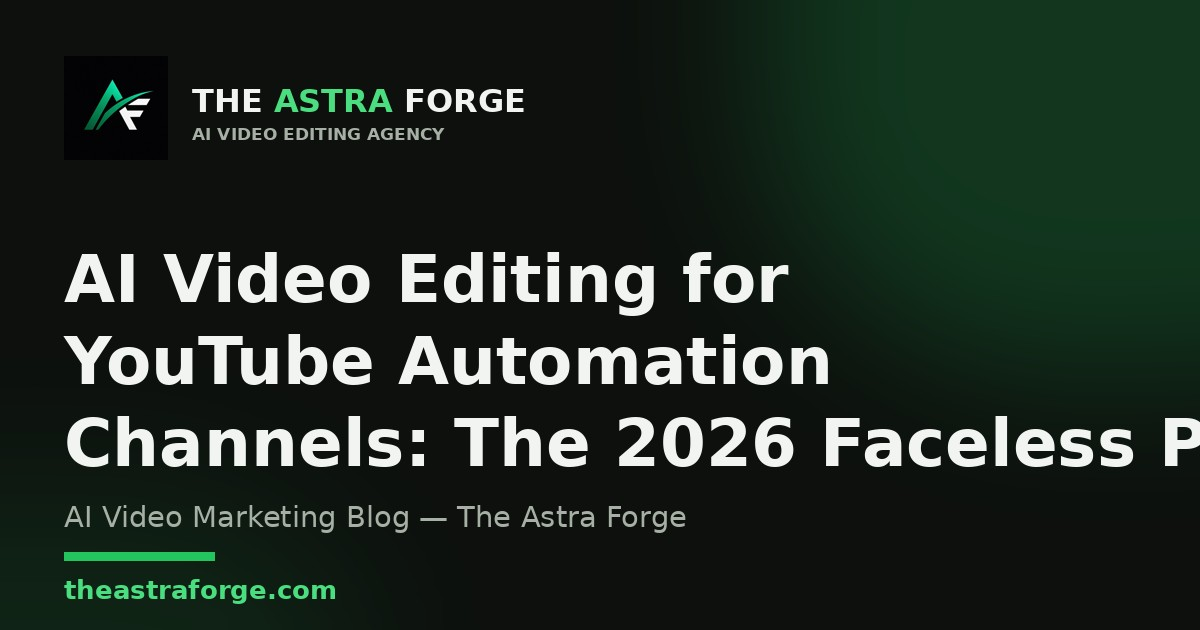
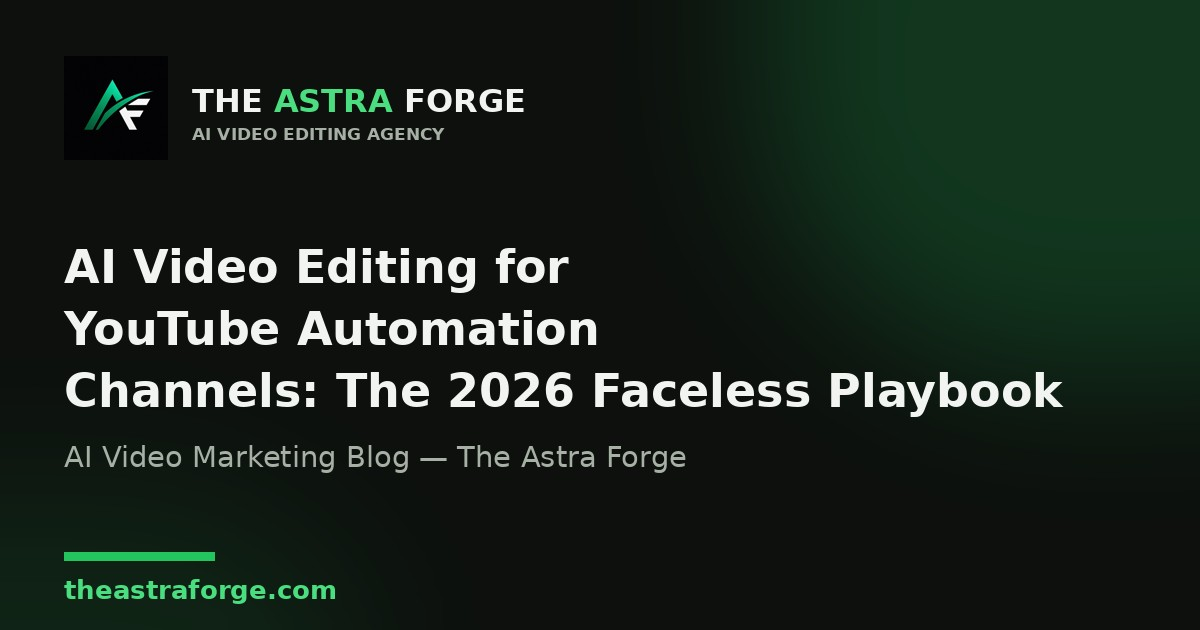
New theme (ivory + deep forest, no more black/white), fancy scrollbar, mobile price-grid fix, OG text auto-fit

Changed region(s): [[0.0308, 0.3921, 1.0, 0.754], [0.0617, 0.7841, 0.5858, 0.8444]]

diff --git a/assets/css/style.css b/assets/css/style.css
@@ -1,21 +1,27 @@
 /* The Astra Forge — AI video editing agency. Light default, dark via [data-theme="dark"]. */
 :root{
-  --bg:#f5f8f5; --bg2:#ecf3ec; --card:#ffffff; --card2:#f0f5f0;
-  --ink:#0e130e; --mut:#5a645a; --line:rgba(14,19,14,.10);
+  --bg:#faf6ed; --bg2:#f1ebdb; --card:#ffffff; --card2:#f7f2e6;
+  --ink:#101a13; --mut:#5c665c; --line:rgba(16,26,19,.12);
   --green:#16a34a; --green-b:#22c55e; --green-l:#4ade80; --green-ink:#052e16;
   --grad:linear-gradient(90deg,#16a34a,#22c55e,#4ade80);
   --r:20px; --sh:0 18px 50px rgba(20,40,20,.10);
   --hero-glow:rgba(34,197,94,.16);
 }
 [data-theme="dark"]{
-  --bg:#0d100d; --bg2:#11140f; --card:#161a15; --card2:#1b201a;
-  --ink:#f1f4f0; --mut:#a7b0a5; --line:rgba(255,255,255,.10);
+  --bg:#0a1a12; --bg2:#0e2318; --card:#122a1d; --card2:#162e20;
+  --ink:#eef4ef; --mut:#a9b8ab; --line:rgba(134,239,172,.14);
   --green:#4ade80; --green-b:#22c55e; --green-l:#86efac; --green-ink:#04160b;
   --sh:0 18px 50px rgba(0,0,0,.45);
   --hero-glow:rgba(34,197,94,.14);
 }
 *{margin:0;padding:0;box-sizing:border-box}
 html{scroll-behavior:smooth}
+/* ---------- fancy scrollbar ---------- */
+*{scrollbar-width:thin;scrollbar-color:#22c55e var(--bg2)}
+::-webkit-scrollbar{width:11px;height:11px}
+::-webkit-scrollbar-track{background:var(--bg2);border-radius:8px}
+::-webkit-scrollbar-thumb{background:linear-gradient(180deg,#4ade80,#16a34a);border-radius:8px;border:2px solid var(--bg2)}
+::-webkit-scrollbar-thumb:hover{background:linear-gradient(180deg,#86efac,#22c55e);border-color:var(--bg2)}
 body{background:var(--bg);color:var(--ink);font-family:'Inter','Segoe UI',system-ui,-apple-system,sans-serif;line-height:1.65;-webkit-font-smoothing:antialiased;overflow-x:hidden;transition:background .25s,color .25s}
 h1,h2,h3{font-family:'Space Grotesk','Inter',system-ui,sans-serif;line-height:1.12;letter-spacing:-.5px;font-weight:700}
 a{color:inherit;text-decoration:none}
@@ -262,7 +268,7 @@ footer{border-top:1px solid var(--line);padding:56px 0 30px;background:var(--bg2
   .burger{display:block}
   .nav-cta{display:none}
   .hero{padding:70px 0 60px}
-  .price-grid,.foot-grid{grid-template-columns:1fr}
+  .price-grid,.price-grid.four,.foot-grid{grid-template-columns:1fr}
   .form-grid{grid-template-columns:1fr}
   .lead-form{padding:24px 20px}
   .pf-grid,.blog-grid,.svc-grid,.demo-grid,.res-grid,.steps,.rel-grid,.cs-grid,.about-grid{grid-template-columns:1fr}
